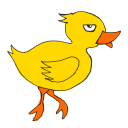
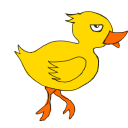
Float bob

Changed region(s): [[0.0625, 0.0625, 1.0, 0.9688]]

diff --git a/client/actor.js b/client/actor.js
@@ -8,8 +8,10 @@ exports.duck = function(scene, serverInfo) {
     exports.duck.superConstructor.apply(this, arguments);
     this.scene = scene;
     this.serverInfo = serverInfo;
-    this.image = gamejs.image.load("./res/duck.png");
+    this.originalImage = gamejs.image.load("./res/duck.png");
+    this.image = this.originalImage;
     this.rect = this.getRect();
+    this.floatBob = new utils.floatBob(0.003, 12);
     return this;
 };
 gamejs.utils.objects.extend(exports.duck, gamejs.sprite.Sprite);
@@ -18,7 +20,7 @@ gamejs.utils.objects.extend(exports.duck, gamejs.sprite.Sprite);
 exports.duck.prototype.getRect = function() {
     var centerPos = new gamejs.Rect(
         this.scene.START + this.serverInfo.duckPos * (this.scene.FINISH - this.scene.START),
-        240
+        245
         );
     return utils.centerToTopLeft(centerPos, this.image);
 }
@@ -26,4 +28,6 @@ exports.duck.prototype.getRect = function() {
 // Duck update
 exports.duck.prototype.update = function(dt) {
     this.rect = this.getRect();
+    this.floatBob.update(dt);
+    this.image = gamejs.transform.rotate(this.originalImage, this.floatBob.rotation);
 }

diff --git a/client/scenery.js b/client/scenery.js
@@ -16,8 +16,16 @@ gamejs.utils.objects.extend(exports.fullScreenSprite, gamejs.sprite.Sprite);
 exports.buoy = function(scene, xPosition, imageFile) {    
     exports.buoy.superConstructor.apply(this, arguments);
     this.scene = scene;
-    this.image = gamejs.image.load(imageFile);
-    this.rect = utils.centerToTopLeft(new gamejs.Rect([xPosition, 200]), this.image);
+    this.originalImage = gamejs.image.load(imageFile);
+    this.image = this.originalImage;
+    this.rect = utils.centerToTopLeft(new gamejs.Rect([xPosition, 230]), this.image);
+    this.floatBob = new utils.floatBob(0.0015, 6);
     return this;
 };
 gamejs.utils.objects.extend(exports.buoy, gamejs.sprite.Sprite);
+
+// Buoys update
+exports.buoy.prototype.update = function(dt) {
+    this.floatBob.update(dt);
+    this.image = gamejs.transform.rotate(this.originalImage, this.floatBob.rotation);
+}

diff --git a/client/utils.js b/client/utils.js
@@ -5,3 +5,17 @@ exports.centerToTopLeft = function(pos, image) {
     pos.y -= image.getSize()[1] * 0.5;
     return pos;
 }
+
+exports.floatBob = function(speed, angleMax) {
+    this.SPEED = speed;
+    this.ANGLE_MAX = angleMax;
+    this.rotationT = Math.random();
+    this.rotation = 0;
+    return this;
+}
+
+exports.floatBob.prototype.update = function(dt) {
+    this.rotationT += dt * this.SPEED;
+    var cosT = Math.cos(this.rotationT);
+    this.rotation = (cosT - 0.5) * this.ANGLE_MAX ;
+}

diff --git a/client/client.js b/client/client.js
@@ -131,6 +131,8 @@ function init() {
 // Update
 function update(dt) {
     // Update scene
+    scene.startBuoy.update(dt);
+    scene.finishBuoy.update(dt);
     scene.duck.update(dt);
 }
 
